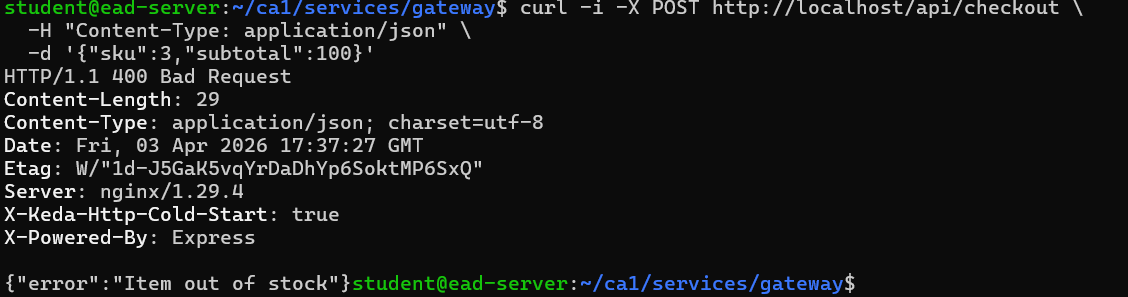
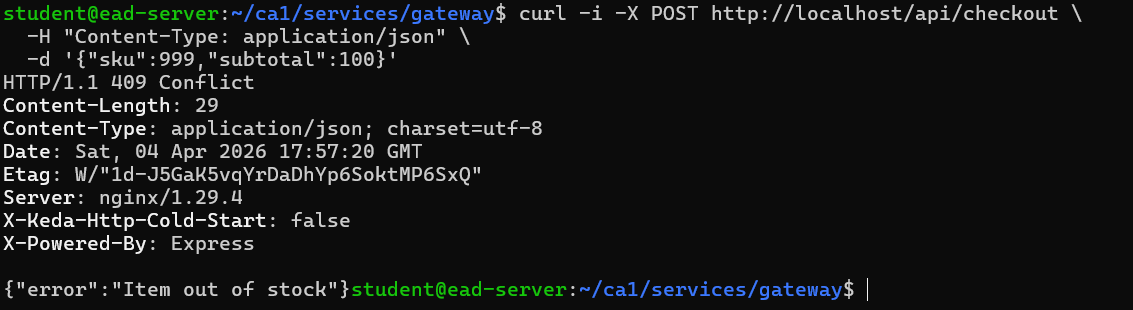
Final Update

Changed region(s): [[0.0, 0.0, 0.9619, 0.3636], [0.0, 0.3939, 0.4965, 0.8485], [0.0, 0.9091, 0.7757, 1.0]]

diff --git a/services/checkout/app.js b/services/checkout/app.js
@@ -91,7 +91,7 @@ app.post('/checkout', async (req, res) => {
   const inventory = await invRes.json();
 
   if (!inventory.inStock) {
-    return res.status(400).json({
+    return res.status(409).json({
       error: 'Item out of stock'
     });
   }
@@ -128,6 +128,7 @@ app.post('/checkout', async (req, res) => {
   }
 
   return res.json({
+  requestID,
     sku,
     ...pricing,
     message: 'Checkout successful'

diff --git a/README.md b/README.md
@@ -1,1 +1,161 @@
-EADS
+# Kubernetes Nanoservices Checkout System
+
+A nanoservices-based checkout system deployed on Kubernetes (K3s). This project demonstrates service-to-service communication, request tracing, autoscaling using KEDA, failure handling, debugging workflows, and persistence using PostgreSQL.
+
+## Overview
+
+This system simulates an e-commerce checkout workflow composed of multiple independent services:
+
+Gateway – Entry point for all client requests
+Checkout – Core business logic 
+Pricing – Calculates totals and tax
+Inventory – Validates stock availability
+PostgreSQL – Persistent data storage
+
+The application is deployed on Kubernetes and exposed externally via Ingress (Traefik). 
+## Architecture
+
+### System Architecture:
+
+               [ Browser / curl ]
+                       |
+                       v
+              [ Ingress (Traefik) ] 
+                       |
+                       v
+         [ KEDA HTTP Interceptor Proxy ]  
+                       |
+                       v
+          [ gateway-svc (NGINX / UI) ]  
+                       |
+                       v
+                [ checkout-svc ]  
+                       |
+         ┌─────────────┼─────────────┐
+         │             │             │
+         v             v             v
+  [ pricing-svc ] [ inventory-svc ] [ postgres-svc ]
+   (Get Price)      (Check Stock)      (Audit Log)
+
+### Request Flow:
+
+Client      Traefik     KEDA Interceptor     Gateway      Checkout      Pricing      Inventory     Postgres
+  |            |               |                |            |             |             |            |
+  | (1) POST /api/checkout     |                |            |             |             |            |
+  | (req-123)  |               |                |            |             |             |            |
+  |----------->|               |                |            |             |             |            |
+  |            | (2) Forward   |                |            |             |             |            |
+  |            |-------------->|                |            |             |             |            |
+  |            |               | (3) Traffic    |            |             |             |            |
+  |            |               | Arrives        |            |             |             |            |
+  |            |               | Scale (0 -> 1) |            |             |             |            |
+  |            |               |--------------->|            |             |             |            |
+  |            |               | (4) Forward    |            |             |             |            |
+  |            |               | (req-123)      |            |             |             |            |
+  |            |               |--------------->|            |             |             |            |
+  |            |               |                | (5) POST   |             |             |            |
+  |            |               |                | (req-123)  |             |             |            |
+  |            |               |                |----------->|             |             |            |
+  |            |               |                |            | (6) GET     |             |            |
+  |            |               |                |            | Stock (req-123)           |            |
+  |            |               |                |            |-------------------------->|            |
+  |            |               |                |            |                           |            |
+  |            |               |                |            | (7) RETURN: Stock Status  |            |
+  |            |               |                |            |<--------------------------|            |
+  |            |               |                |            |                           |            |
+  |            |               |                |            | (8) POST    |             |            |
+  |            |               |                |            | Price (req-123)           |            |
+  |            |               |                |            |------------>|             |            |
+  |            |               |                |            |             |             |            |
+  |            |               |                |            | (9) RETURN: Price Data    |            |
+  |            |               |                |            |<------------|             |            |
+  |            |               |                |            |             |             |            |
+  |            |               |                |            | (10) INSERT |             |            |
+  |            |               |                |            | Audit Log (req-123)       |            |
+  |            |               |                |            |--------------------------------------->|
+  |            |               |                |            |             |             |            |
+  |            |               |                | (11) Result|             |             |            |
+  |            |               |                | (req-123)  |             |             |            |
+  |            |               |                |<-----------|             |             |            |
+  |            |               | (12) Response  |            |             |             |            |
+  |            |               | (req-123)      |            |             |             |            |
+  |            |<--------------|                |            |             |             |            |
+  | (13) Final Response        |                |            |             |             |            |
+  | (req-123)  |               |                |            |             |             |            |
+  |<-----------|               |                |            |             |             |            |
+
+Gateway routes external traffic into the cluster
+Checkout composes responses by calling dependent services
+Internal communication uses Kubernetes DNS and ClusterIP services
+Ingress provides a unified external entry point
+
+
+## Key Features
+
+### Microservices Architecture
+Services are independently deployed and managed
+Communication occurs over HTTP using internal DNS
+Demonstrates nanoservice-style composition
+
+### API Endpoints
+Gateway exposes:
+
+GET / – UI entry point
+GET /api/ping – Health and latency testing
+GET /api/arch – Architecture label for observability
+POST /api/checkout – Main checkout workflow
+
+Checkout internally calls:
+
+Pricing service (total calculation)
+Inventory service (stock validation)
+
+### Request Tracing
+
+Each request carries an X-Request-ID header
+The ID is propagated across all services
+Logs include request IDs for end-to-end tracing
+Enables easier debugging in distributed environments
+
+### KEDA Scaling
+Gateway configured for scale-to-zero behaviour
+Automatically scales up when traffic arrives
+Scales down during idle periods
+
+
+### Failure Handling
+Checkout uses timeouts for dependent services
+Handles partial failures gracefully
+Returns clear error responses (e.g., dependency unavailable, out-of-stock)
+Gateway remains available even when backend services fail
+
+### Testing and Reliability
+
+The system was tested under multiple conditions:
+
+Happy path – Successful checkout flow
+Out-of-stock scenario – Inventory validation failure
+Invalid input handling – Proper validation responses
+Bad rollout simulation – Incorrect image leading to failure
+Dependency failure – Service unavailability handling
+Recovery testing – System restored after fixes
+
+### Persistence (PostgreSQL)
+PostgreSQL deployed on Kubernetes
+Uses Persistent Volume Claim (PVC) for storage
+Data persists across pod restarts
+Credentials managed securely via Secrets
+
+
+
+
+## What This Project Demonstrates
+
+Nanoservices design on Kubernetes
+Service-to-service communication using DNS
+Request tracing across distributed services
+Handling partial failures and timeouts
+Autoscaling with KEDA (including scale-to-zero)
+Troubleshooting using Kubernetes-native tools
+Persistent storage using PostgreSQL and PVCs
+Real-world deployment patterns (Ingress, Services, Deployments)
